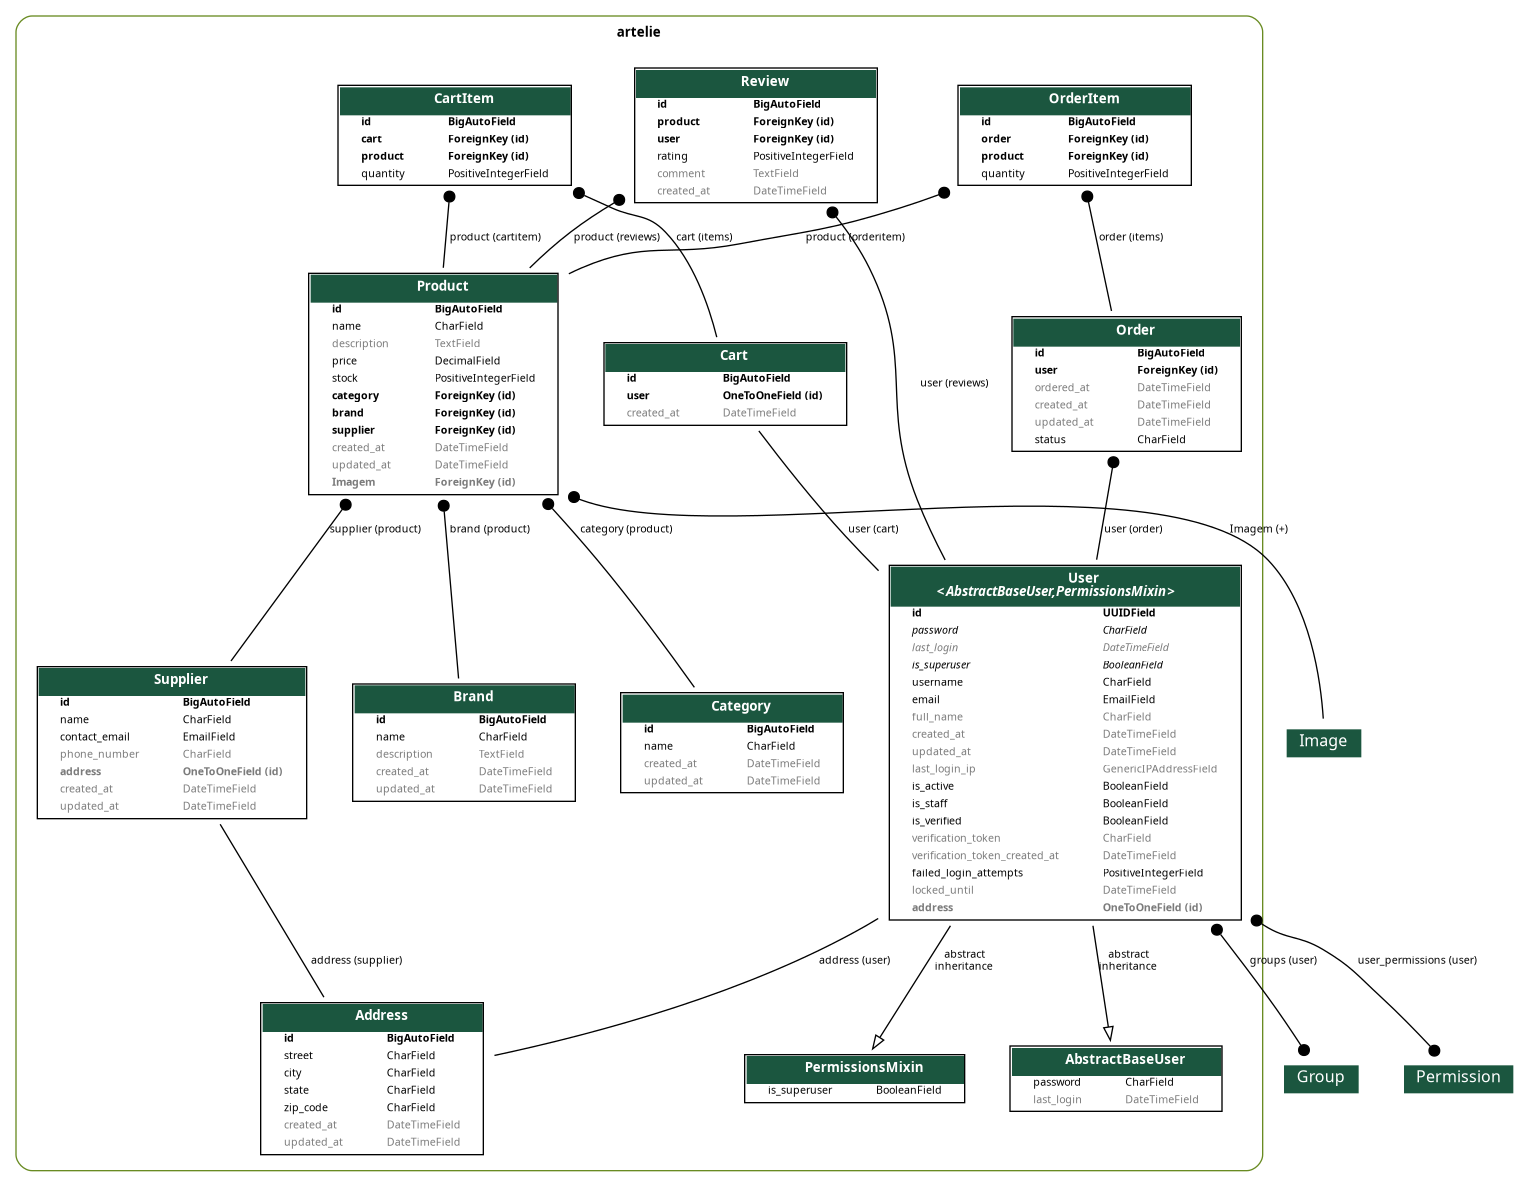
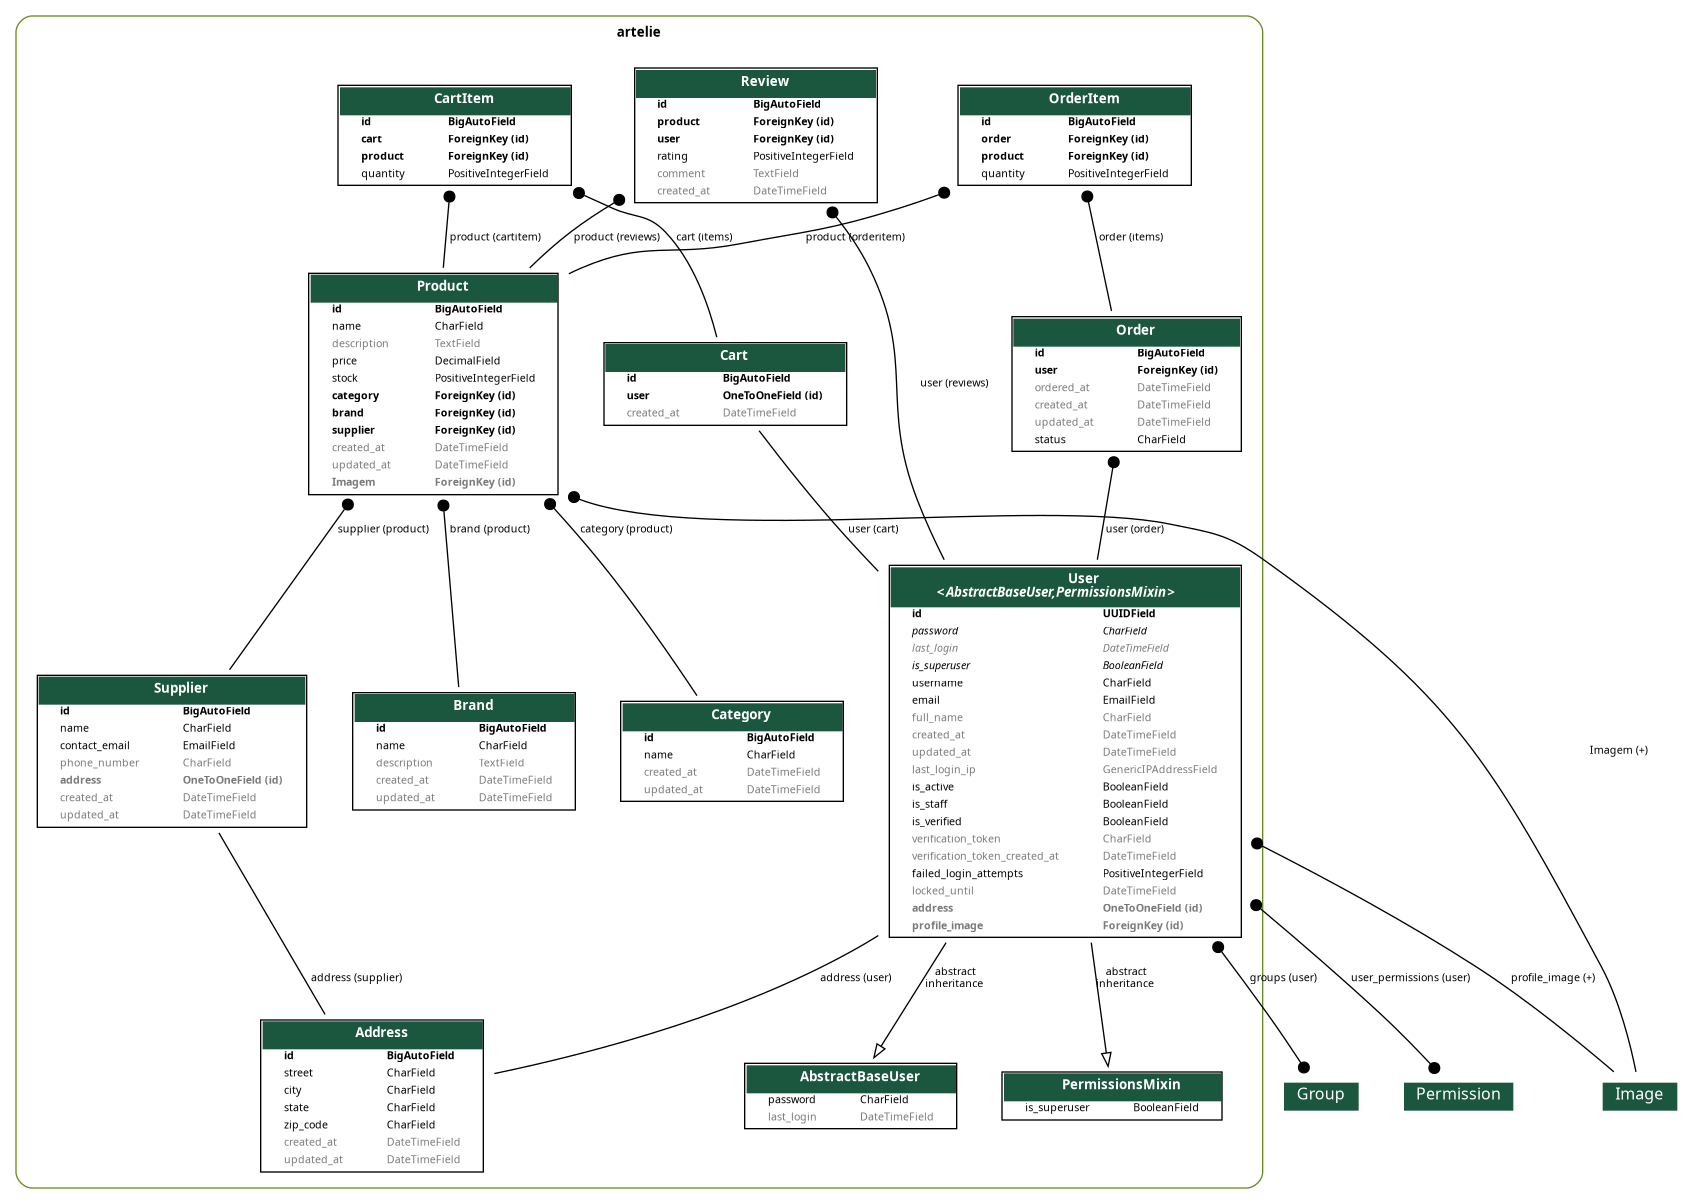
feat: Adiciona campo de imagem de perfil ao modelo de usuário e atualiza serializers para suportar a nova relação com a imagem

diff --git a/artelie/serializers/user.py b/artelie/serializers/user.py
@@ -2,6 +2,9 @@ from rest_framework import serializers
 from django.contrib.auth import get_user_model
 from django.contrib.auth.password_validation import validate_password
 from django.core.exceptions import ValidationError as DjangoValidationError
+from rest_framework.serializers import ModelSerializer, SlugRelatedField
+from uploader.models import Image
+from uploader.serializers import ImageSerializer
 import re
 
 User = get_user_model()
@@ -14,9 +17,9 @@ class BaseUserSerializer(serializers.ModelSerializer):
         """Validação do email."""
         value = value.lower().strip()
         
-        # Verifica se o email existe (menos o próprio usuário na edição)
+        # verifica se o email existe (menos o próprio usuário na edição)
         queryset = User.objects.filter(email=value)
-        if self.instance:  # ✅ CORRIGIDO (era self.isinstance)
+        if self.instance:
             queryset = queryset.exclude(pk=self.instance.pk)
         
         if queryset.exists():
@@ -50,9 +53,16 @@ class BaseUserSerializer(serializers.ModelSerializer):
 class UserSerializer(BaseUserSerializer):
     """Serializer para CRUD e usado pelo adm"""
     full_name = serializers.CharField(required=False, allow_blank=True, max_length=150)
-    
+    perfil_attachment_key = SlugRelatedField(
+        source='perfil',
+        queryset=Image.objects.all(),
+        slug_field='attachment_key',
+        required=False,
+        write_only=True,
+    )
+    perfil = ImageSerializer(required=False, read_only=True)
     class Meta:
-        model = User  # ✅ ADICIONADO
+        model = User
         fields = [
             'id', 'username', 'email', 'full_name', 
             'is_active', 'is_verified', 'is_staff',
@@ -81,7 +91,7 @@ class UserSerializer(BaseUserSerializer):
         return data
 
 
-class UserDetailSerializer(UserSerializer):  # ✅ CORRIGIDO: herda de UserSerializer
+class UserDetailSerializer(UserSerializer): 
     """Detalha informações individuais e infos adicionais"""
     address = serializers.SerializerMethodField()
     full_name_display = serializers.SerializerMethodField()

diff --git a/artelie/models/user.py b/artelie/models/user.py
@@ -5,6 +5,7 @@ from django.utils import timezone
 from datetime import timedelta
 import uuid
 from .address import Address
+from uploader.models import Image
 
 class UserManager(BaseUserManager):
     """
@@ -86,6 +87,18 @@ class User(AbstractBaseUser, PermissionsMixin):
 
     #relacionamento com endereço
     address = models.OneToOneField(Address, on_delete=models.PROTECT, null=True, blank=True, related_name='user')
+
+    #imagem de perfil
+    profile_image = models.ForeignKey(
+        Image,
+        related_name='+',
+        on_delete=models.SET_NULL,
+        null=True,
+        blank=True,
+        default=None,
+    )
+
+
 
     objects = UserManager()
 

diff --git a/artelie/migrations/0003_user_profile_image.py b/artelie/migrations/0003_user_profile_image.py
@@ -1,0 +1,20 @@
+# Generated by Django 5.2.7 on 2025-10-24 18:00
+
+import django.db.models.deletion
+from django.db import migrations, models
+
+
+class Migration(migrations.Migration):
+
+    dependencies = [
+        ('artelie', '0002_product_imagem'),
+        ('uploader', '0001_initial'),
+    ]
+
+    operations = [
+        migrations.AddField(
+            model_name='user',
+            name='profile_image',
+            field=models.ForeignKey(blank=True, default=None, null=True, on_delete=django.db.models.deletion.SET_NULL, related_name='+', to='uploader.image'),
+        ),
+    ]
